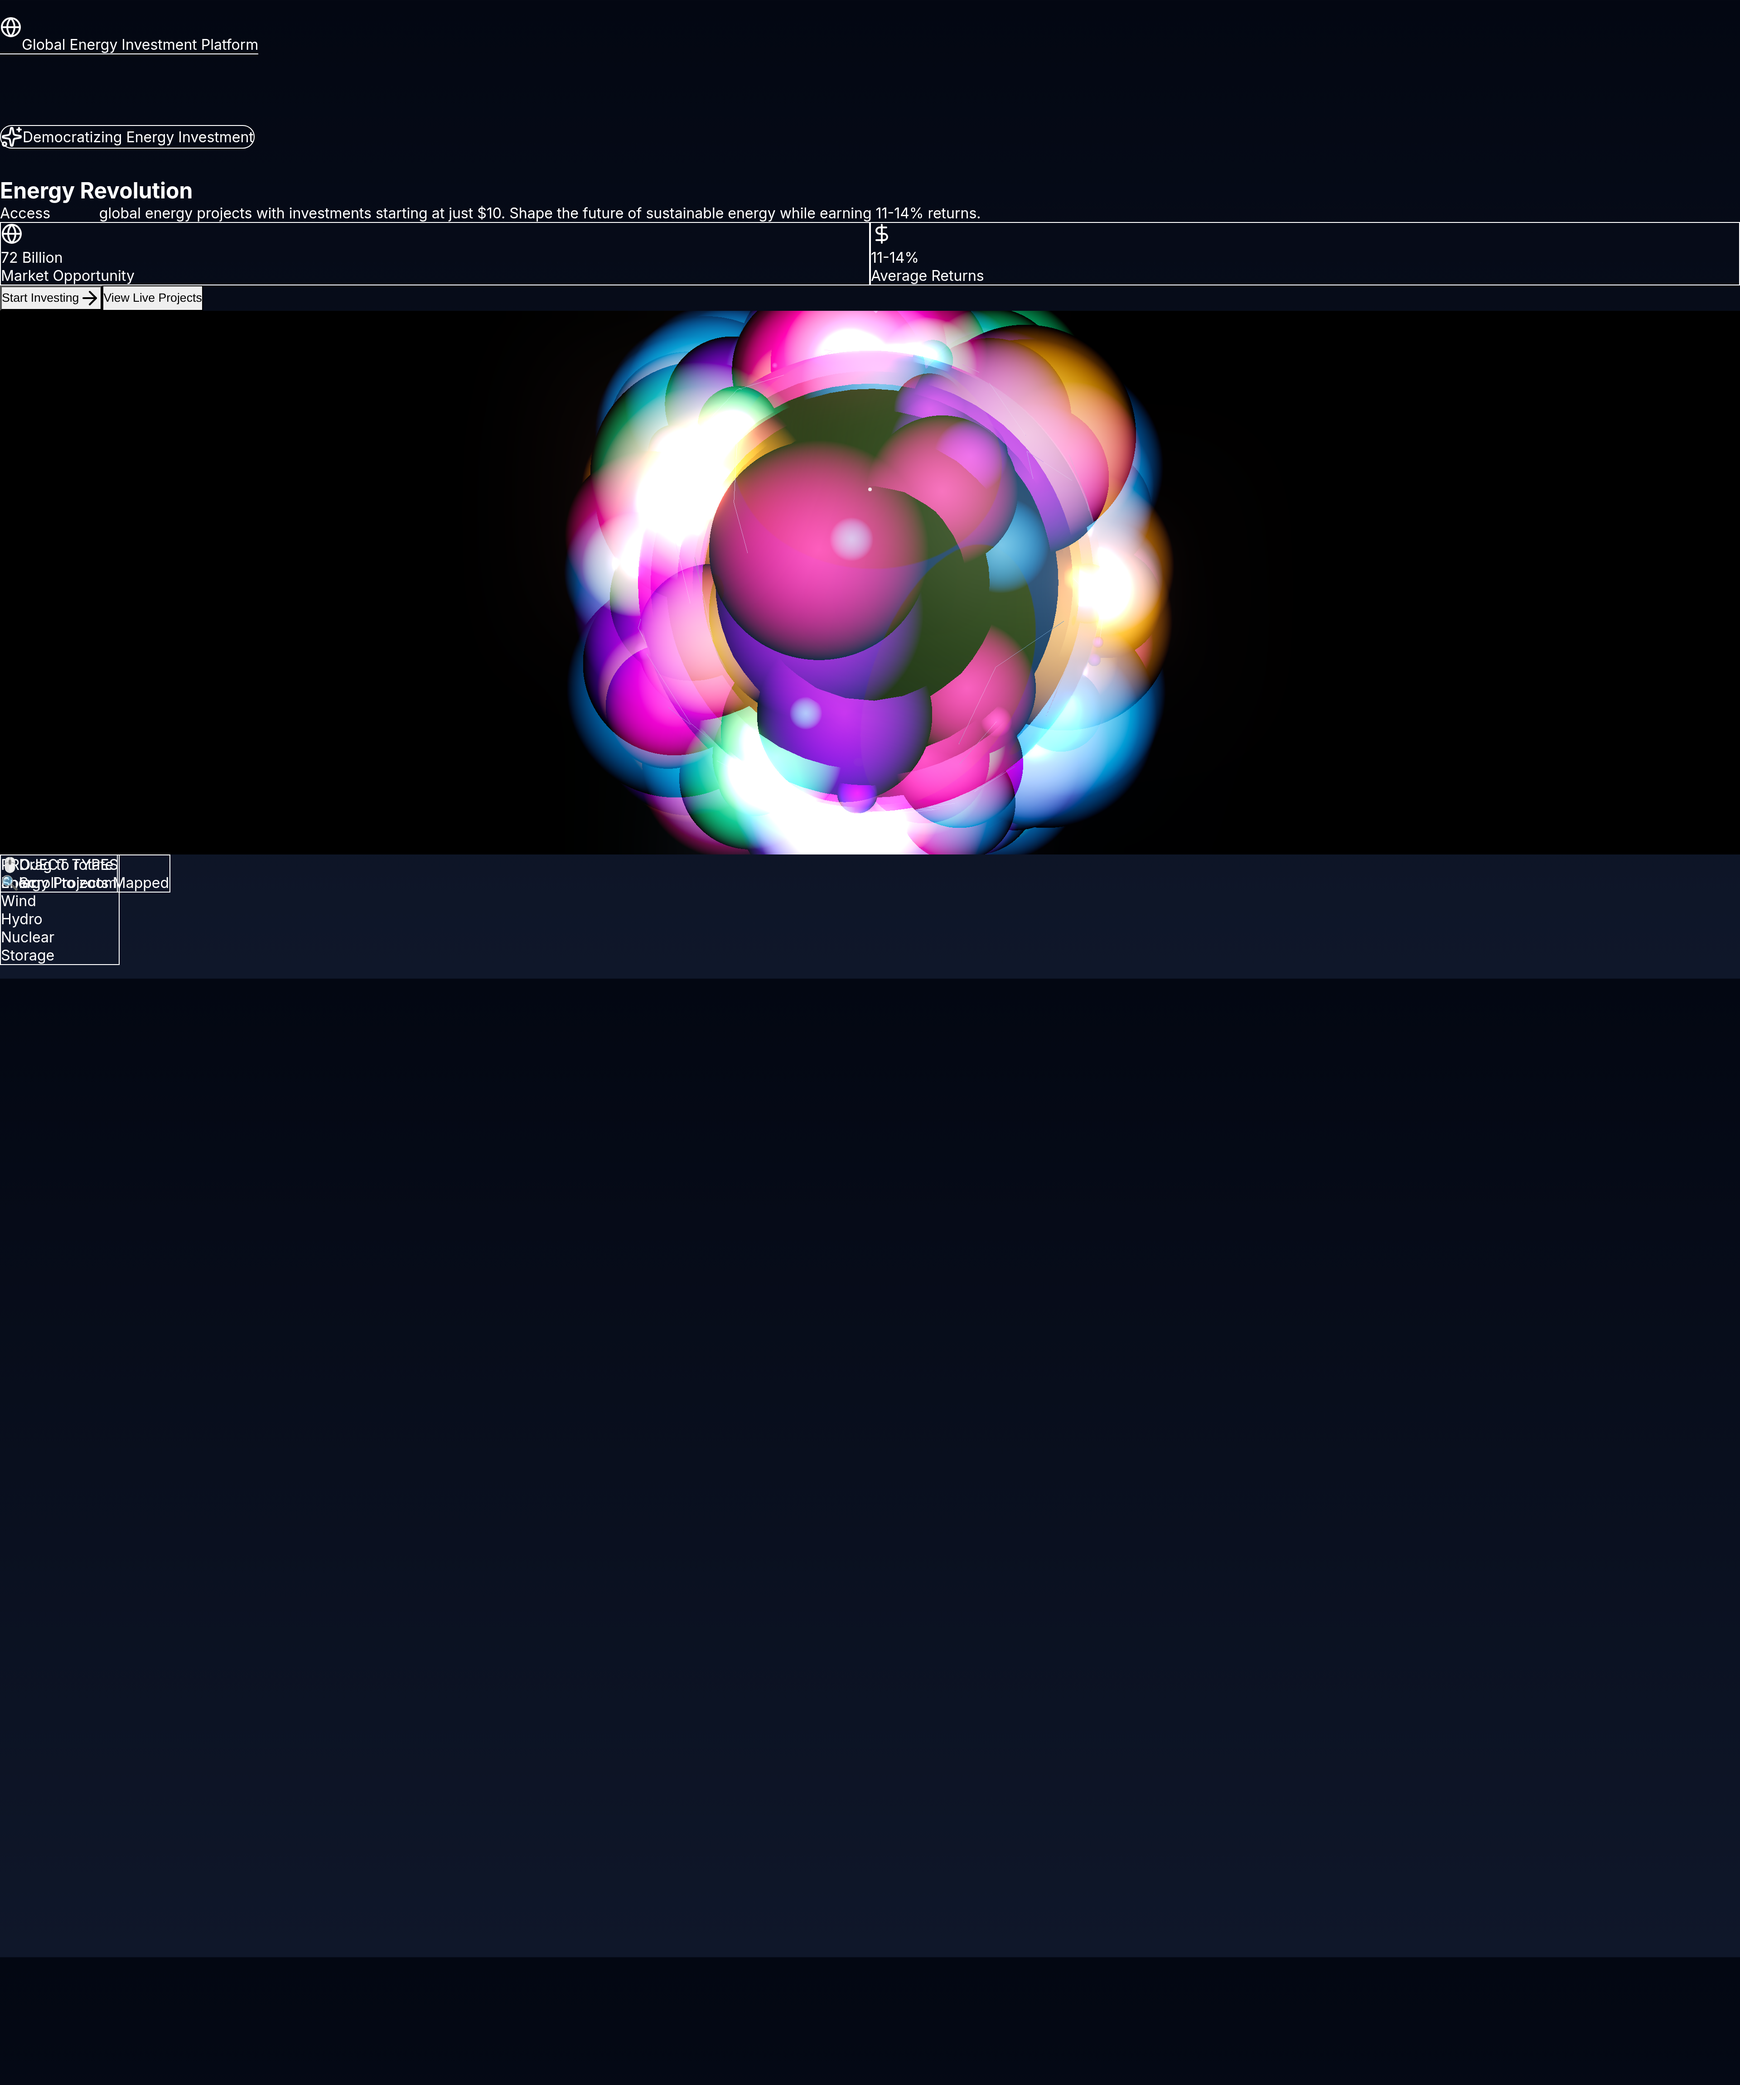
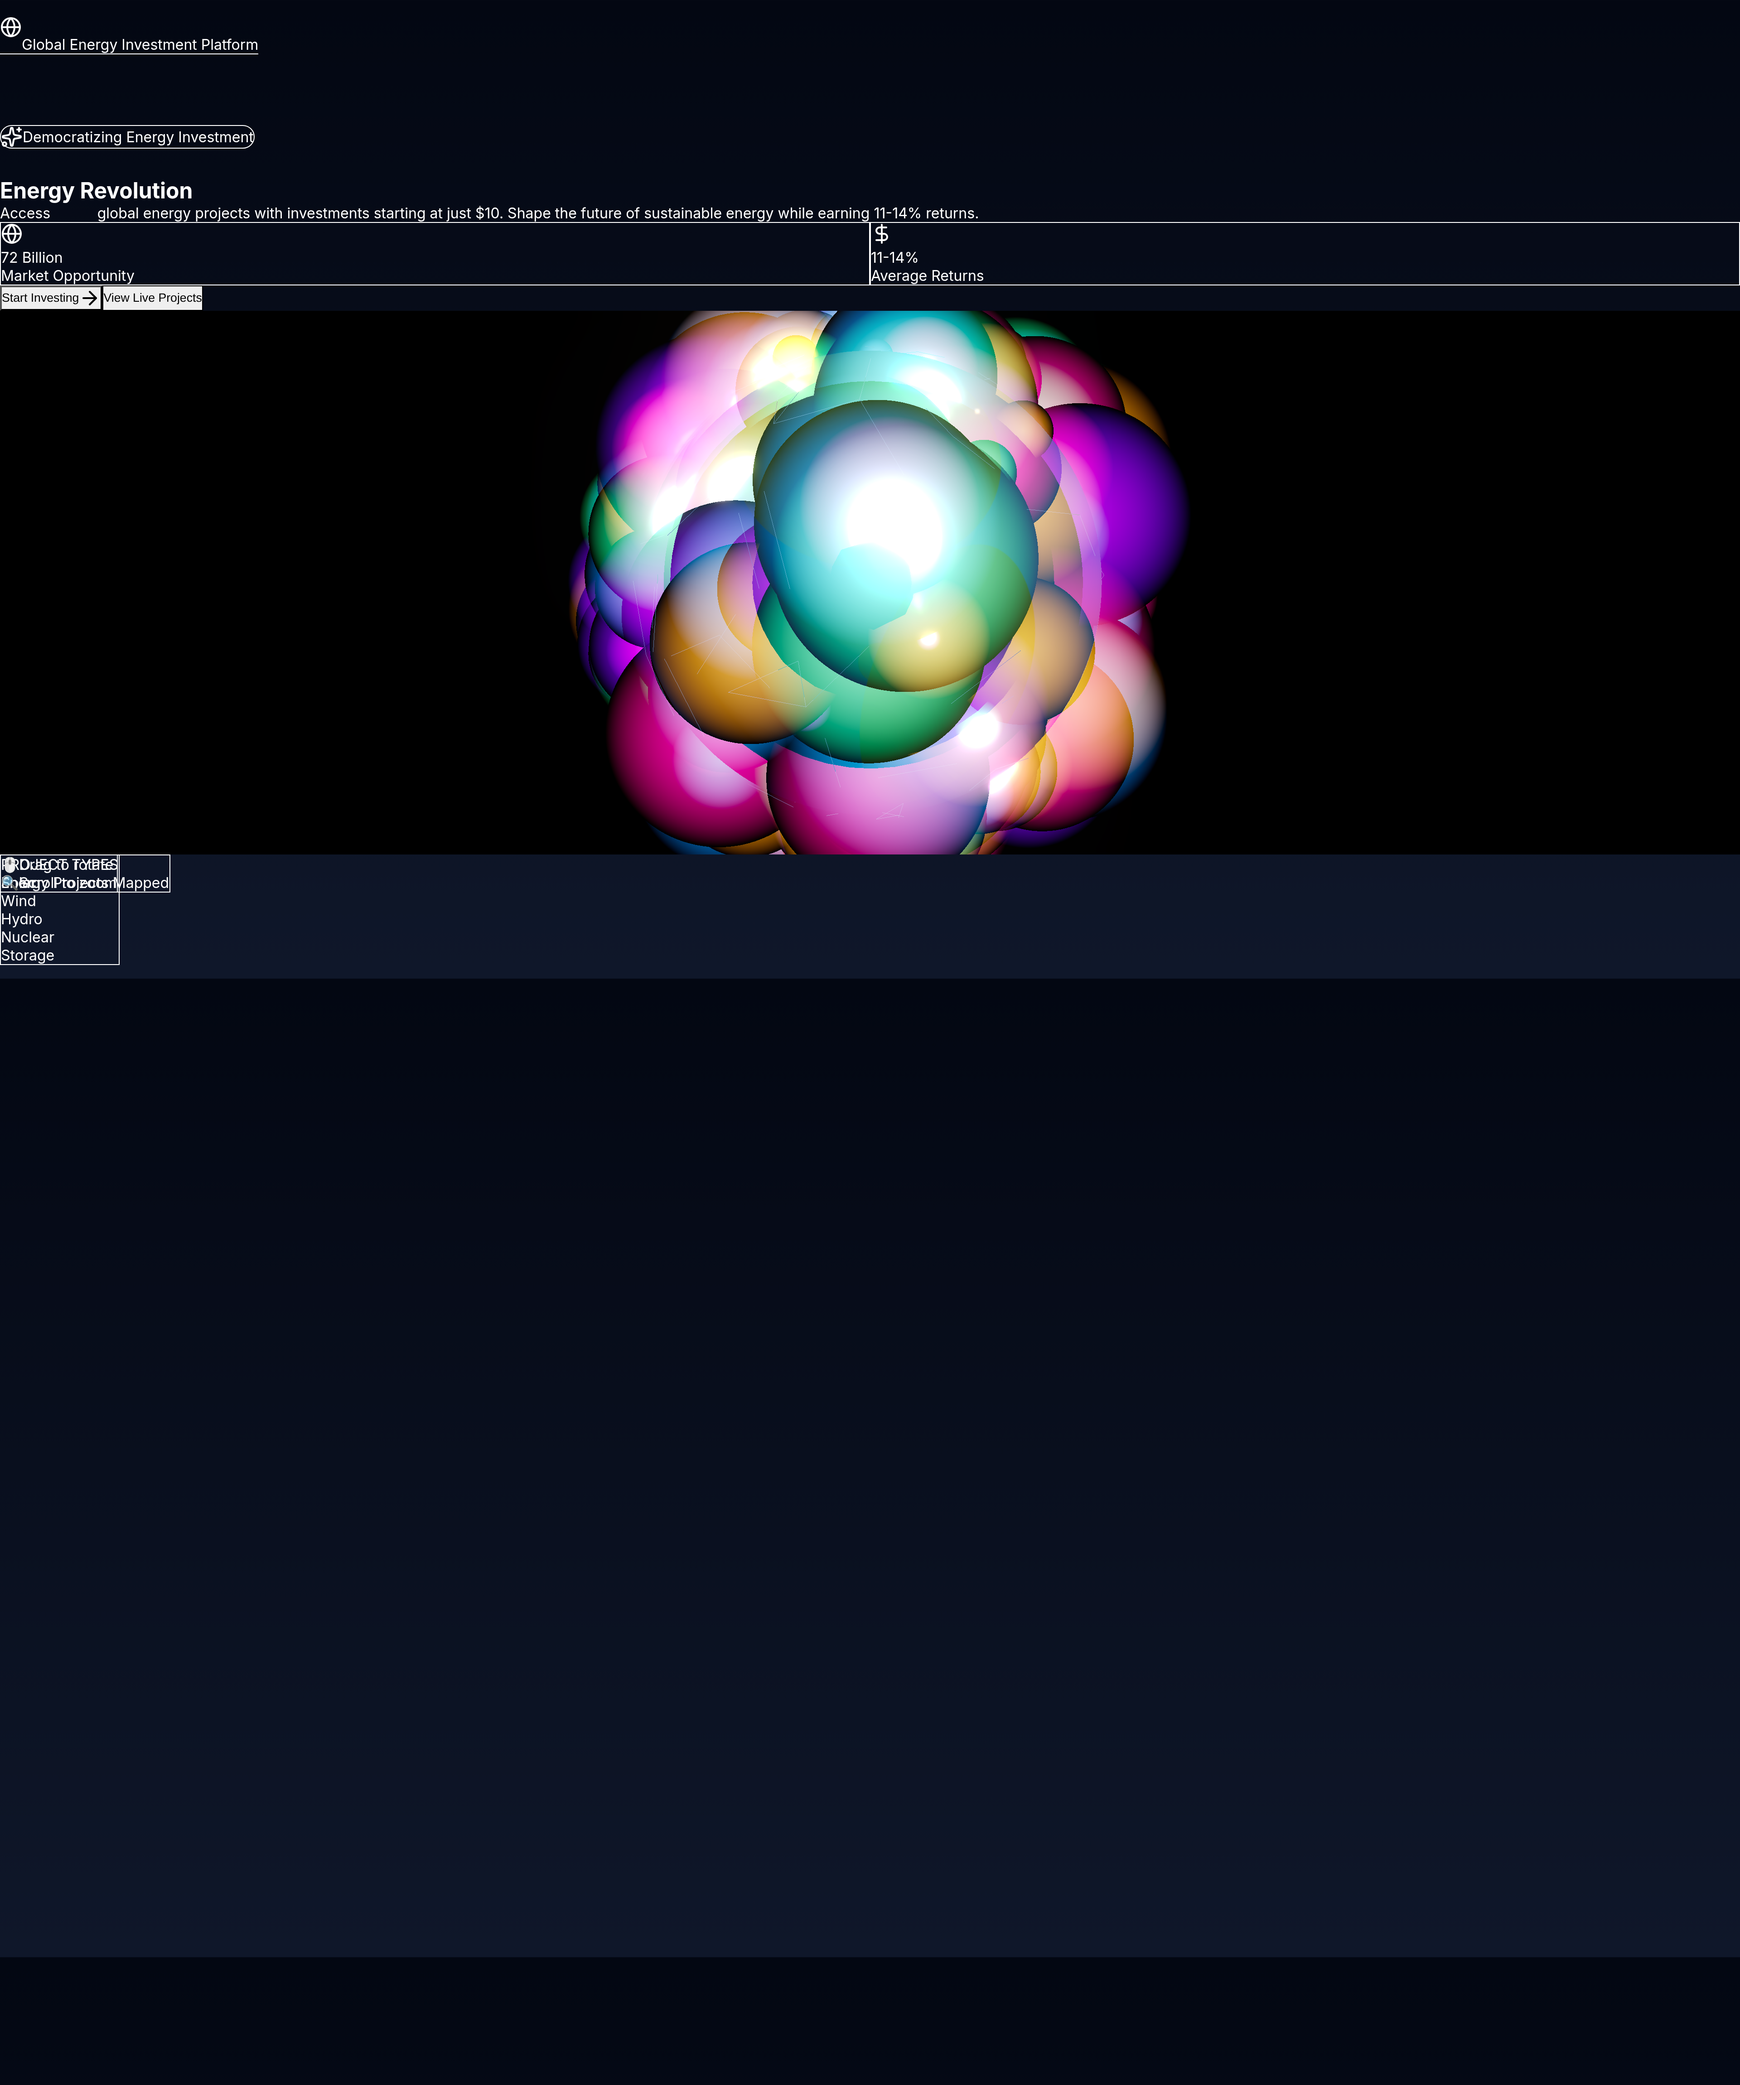
🌍 Fix globe texture: Use reliable jsdelivr CDN with HTTPS
- Changed from unpkg protocol-relative URLs to jsdelivr HTTPS URLs
- More reliable texture loading for Earth Blue Marble
- Should fix colorful spheres issue and show proper Earth texture

Changed region(s): [[0.3125, 0.0932, 0.6875, 0.435], [0.25, 0.0932, 0.2812, 0.1243]]

diff --git a/components/TerraGlobeBackground.tsx b/components/TerraGlobeBackground.tsx
@@ -322,10 +322,10 @@ export default function TerraGlobeBackground() {
         }
       })
       
-      // Beautiful, calm Earth with natural atmosphere (v2 with cache busting)
+      // Beautiful, calm Earth with natural atmosphere (using reliable CDN)
       const globe = Globe()(globeEl.current)
-        .globeImageUrl('//unpkg.com/three-globe@2.31.1/example/img/earth-blue-marble.jpg') // Beautiful Earth texture
-        .bumpImageUrl('//unpkg.com/three-globe@2.31.1/example/img/earth-topology.png') // Terrain depth
+        .globeImageUrl('https://cdn.jsdelivr.net/npm/three-globe@2.31.1/example/img/earth-blue-marble.jpg') // Beautiful Earth texture (reliable HTTPS CDN)
+        .bumpImageUrl('https://cdn.jsdelivr.net/npm/three-globe@2.31.1/example/img/earth-topology.png') // Terrain depth
         .backgroundImageUrl(null) // Clean space background
         .backgroundColor('rgba(0, 0, 0, 0)') // Transparent
         .showAtmosphere(true)

diff --git a/take-screenshots.js b/take-screenshots.js
@@ -23,19 +23,20 @@ const { chromium } = require('playwright');
 
     console.log('Navigating to https://atlas.luminousdynamics.io...');
     await page.goto('https://atlas.luminousdynamics.io', {
-      waitUntil: 'networkidle',
-      timeout: 30000
+      waitUntil: 'domcontentloaded',
+      timeout: 60000
     });
 
     // Wait for the globe to render
     console.log('Waiting for page to fully load...');
-    await page.waitForTimeout(5000);
+    await page.waitForTimeout(8000);
 
     // Take full page screenshot
     console.log('Taking screenshot...');
     await page.screenshot({
       path: 'screenshots/homepage-full.png',
-      fullPage: true
+      fullPage: true,
+      timeout: 60000
     });
 
     // Take viewport screenshot (above the fold)
